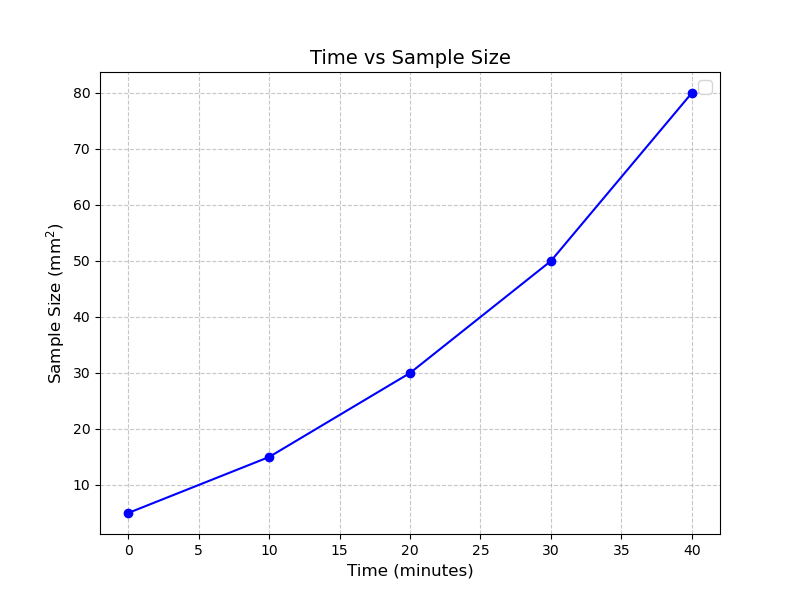
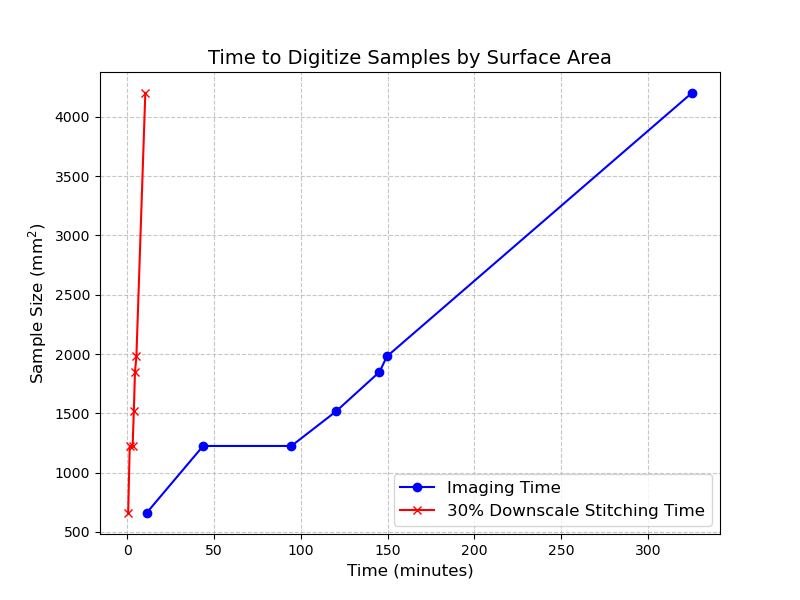
Adding times collected from metadata

diff --git a/code/plots/digitization_time_and_size.py b/code/plots/digitization_time_and_size.py
@@ -1,17 +1,18 @@
 import matplotlib.pyplot as plt
 
 # Fake data points
-time_minutes = [0, 10, 20, 30, 40]  # Time in minutes
-sample_size_mm2 = [5, 15, 30, 50, 80]  # Sample size in mm^2
+time_minutes = [11, 43.6, 94.5, 120.3, 145.3, 149.6, 325.4]  # Time in minutes
+sample_size_mm2 = [660, 1225, 1225, 1517, 1849, 1980, 4200]  # Sample size in mm^2
+stitch_time_minutes = [0.4, 1.29, 2.98, 3.65, 4.32, 5.14, 10.28]
 
 # Create the plot
 plt.figure(figsize=(8, 6))
-plt.plot(time_minutes, sample_size_mm2, marker='o', linestyle='-', color='b')
-
+plt.plot(time_minutes, sample_size_mm2, marker='o', linestyle='-', color='b', label = "Imaging Time")
+plt.plot(stitch_time_minutes, sample_size_mm2, marker = "x", color = 'r', label = "30% Downscale Stitching Time")
 # Add labels and title
 plt.xlabel('Time (minutes)', fontsize=12)
 plt.ylabel('Sample Size (mm$^2$)', fontsize=12)
-plt.title('Time vs Sample Size', fontsize=14)
+plt.title('Time to Digitize Samples by Surface Area', fontsize=14)
 
 # Add grid and legend
 plt.grid(True, linestyle='--', alpha=0.7)
